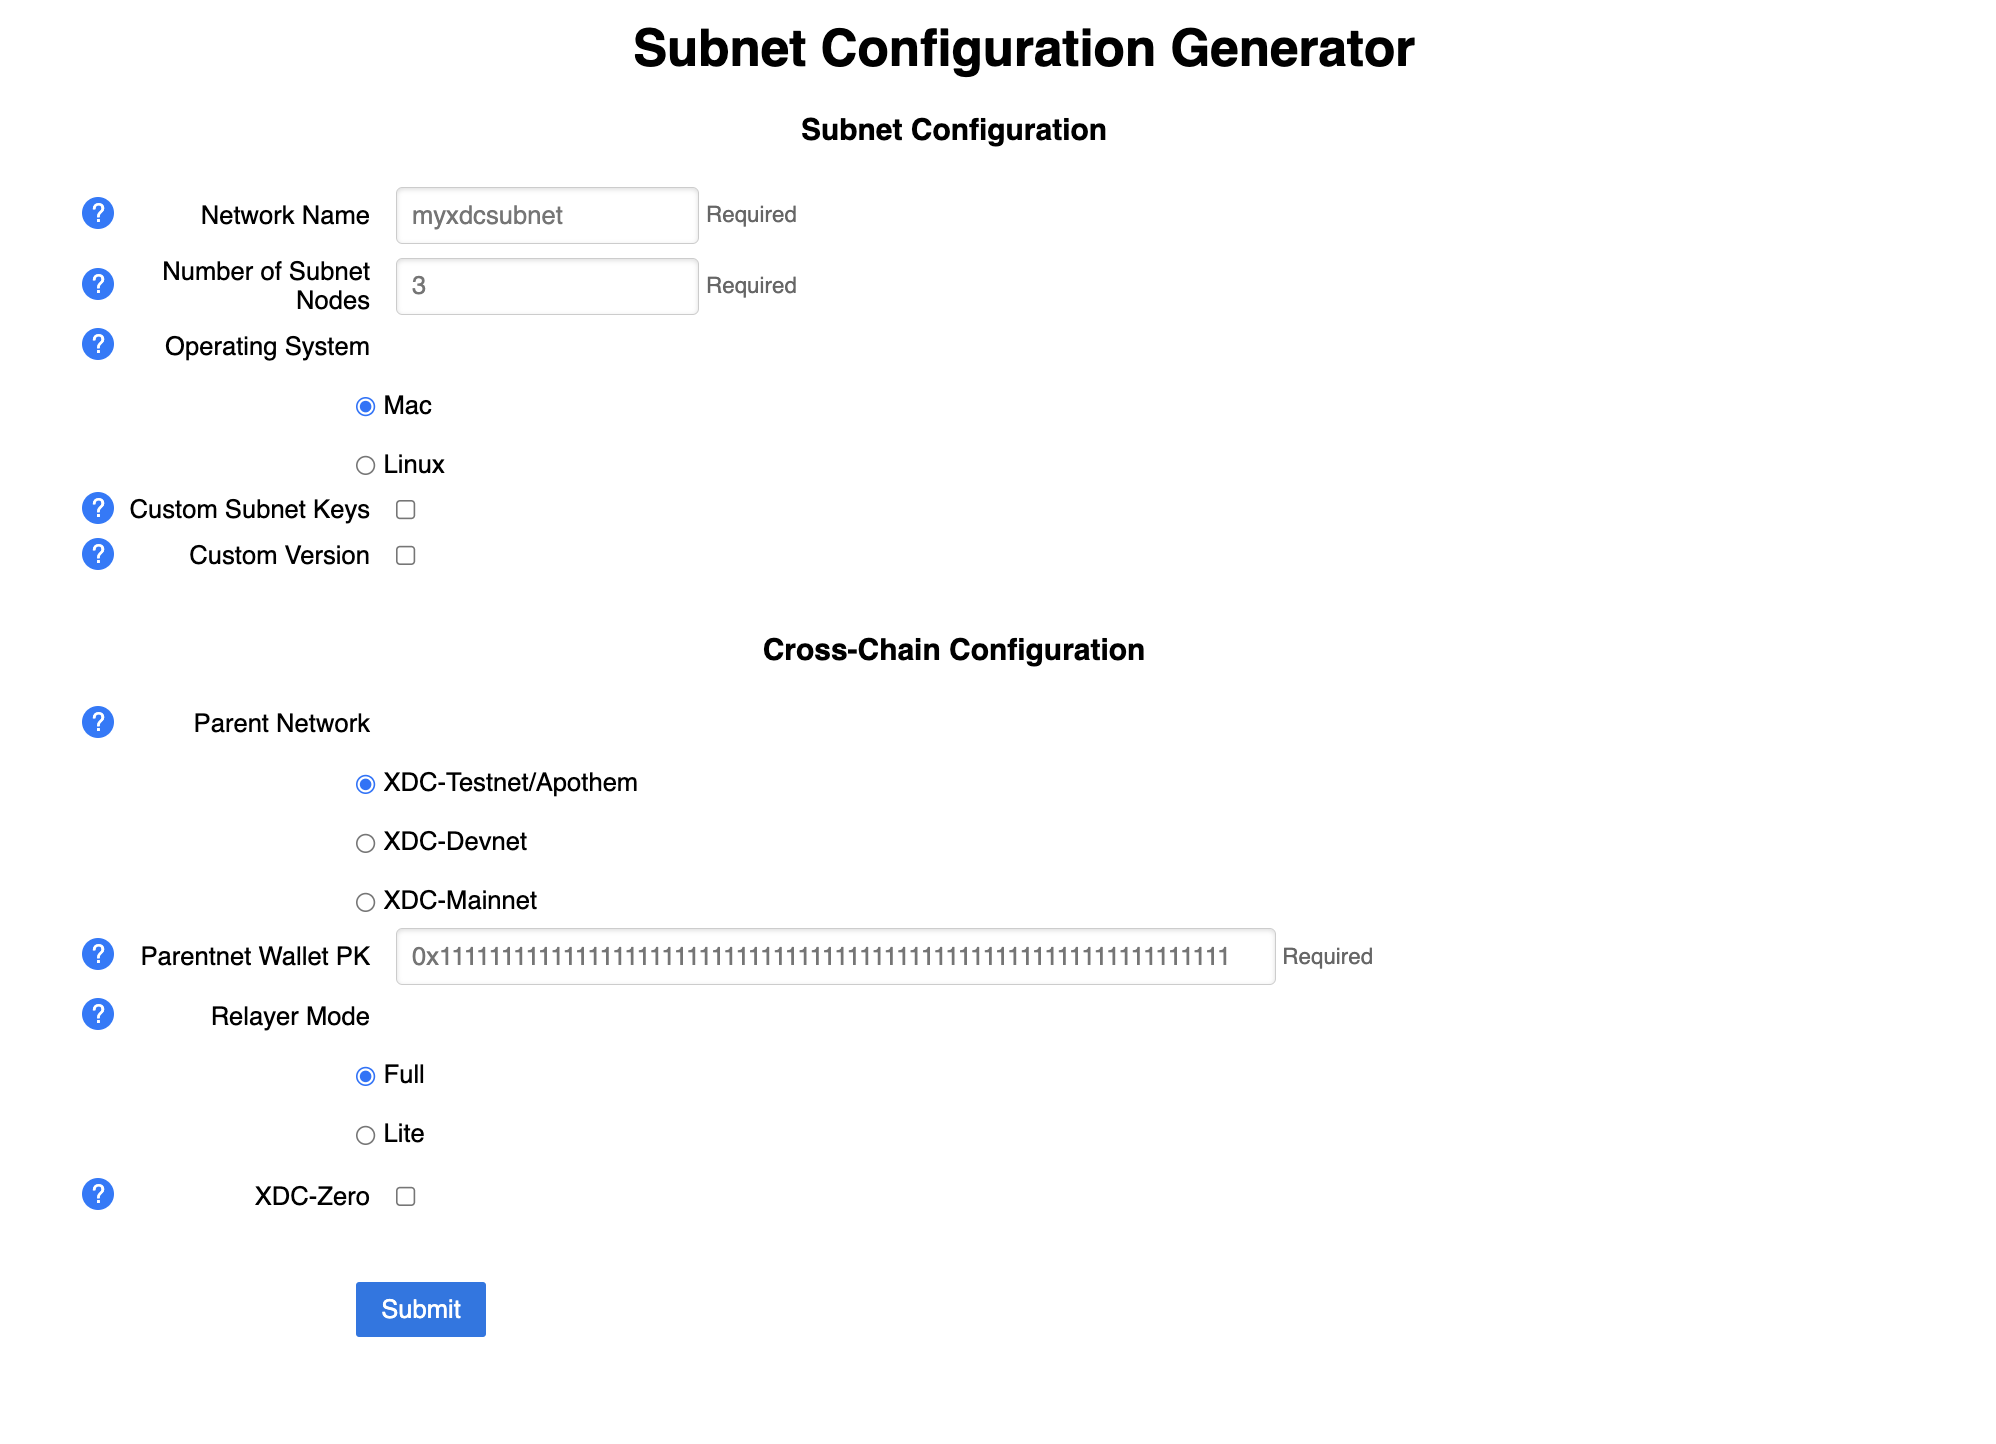
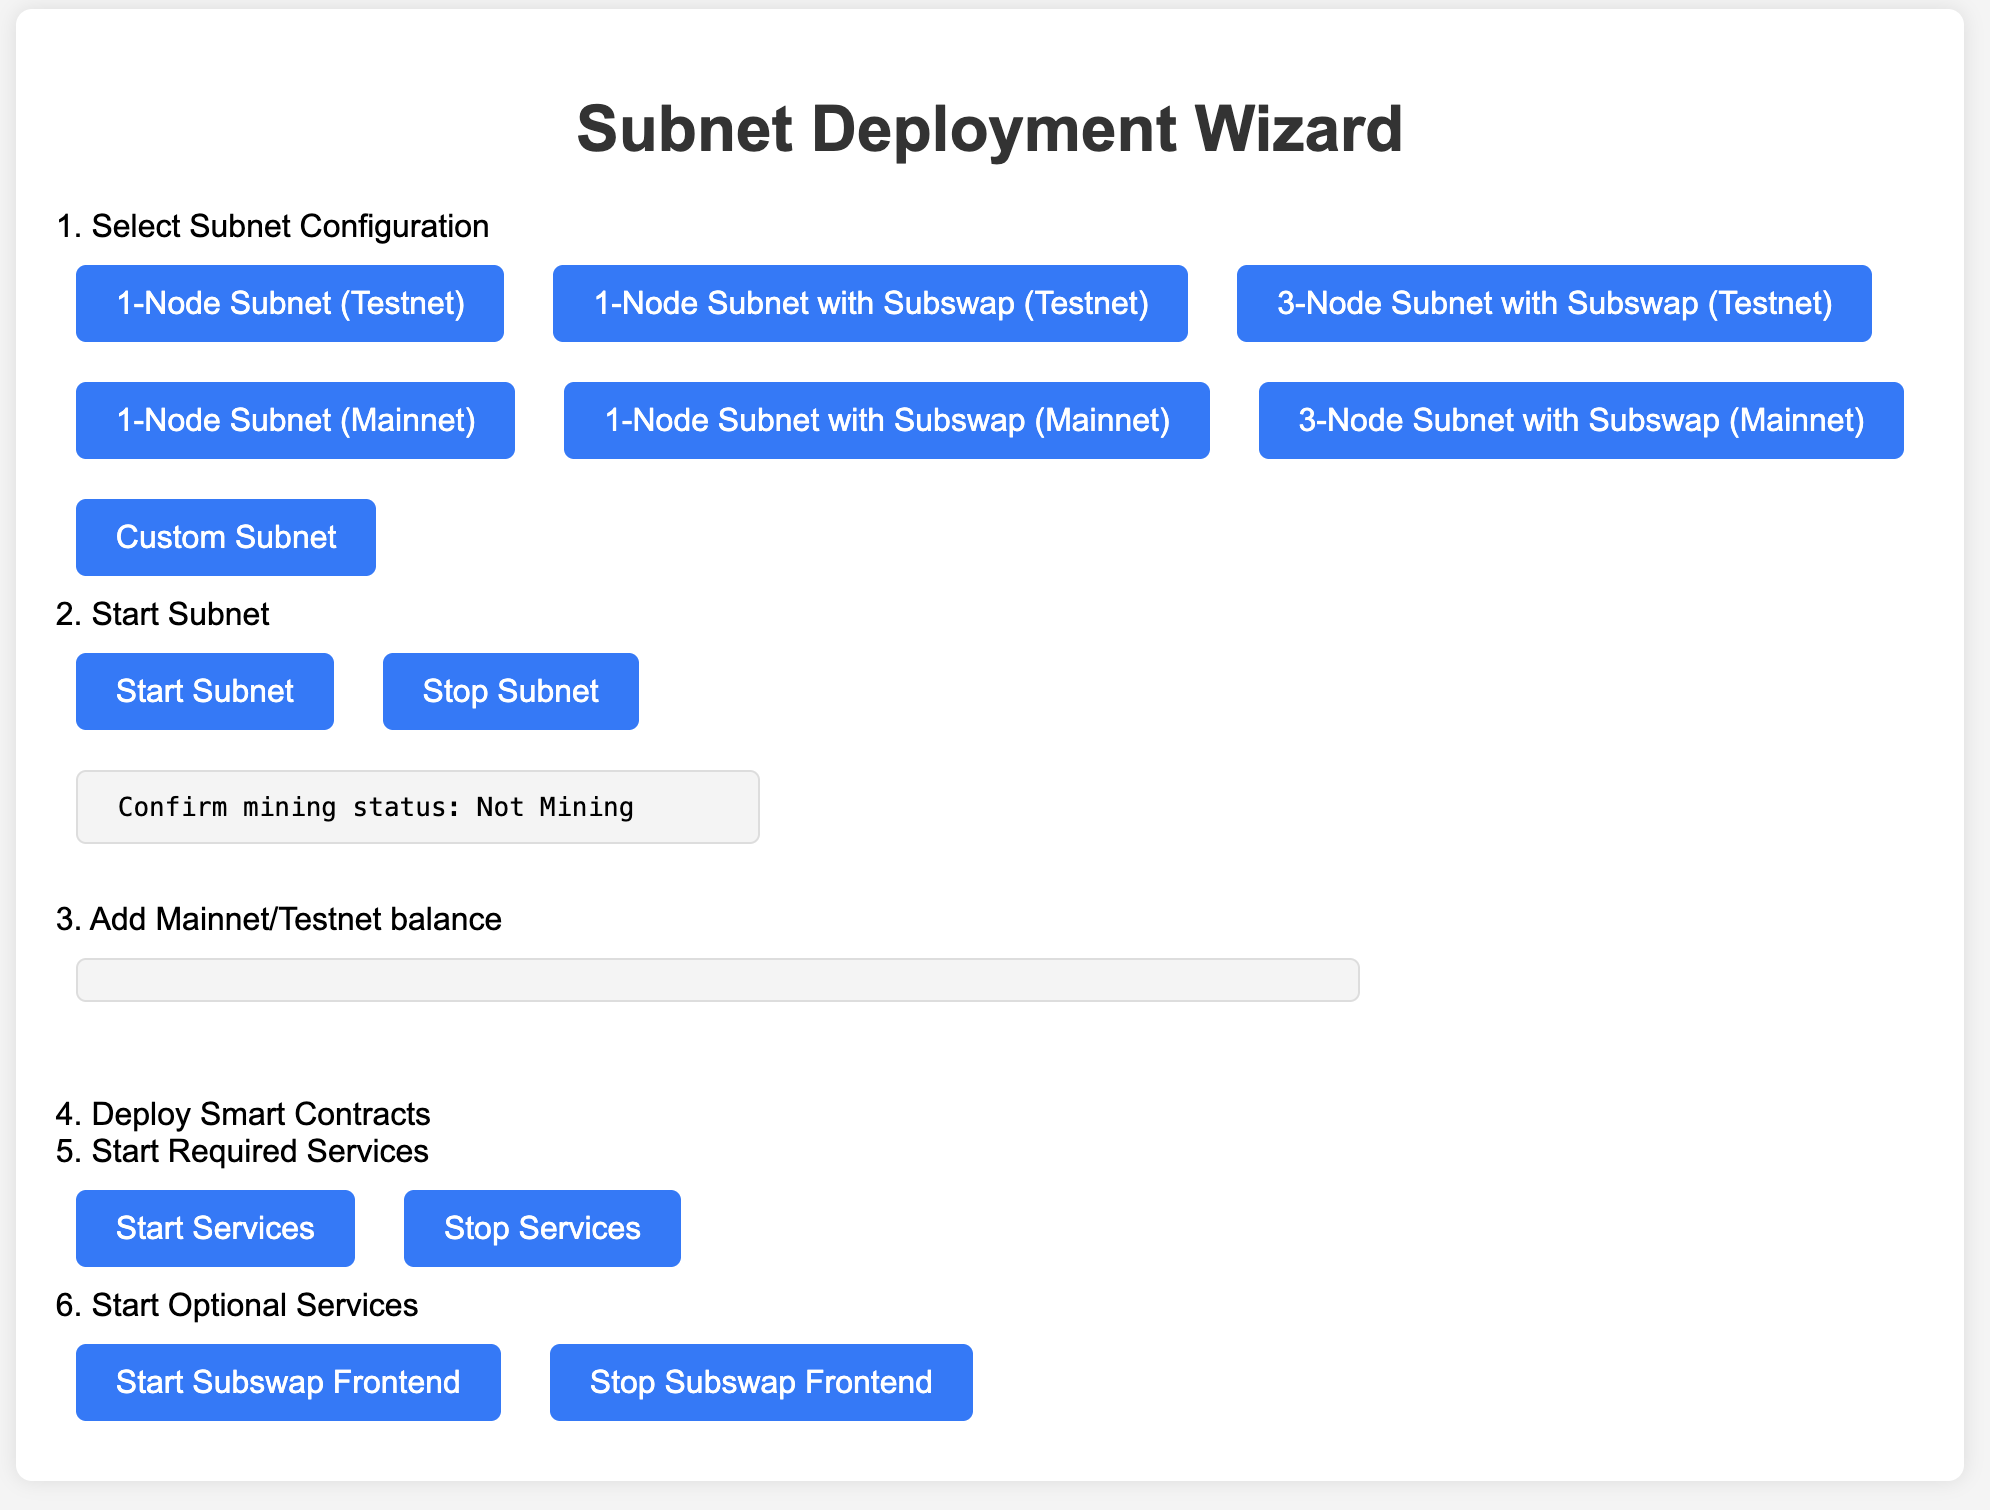
update instructions for new version

Changed region(s): [[0.0312, 0.0, 0.9658, 0.9661], [0.3739, 0.4363, 0.592, 0.4675]]

diff --git a/docs/subnet/install_guide/launch_subnet.md b/docs/subnet/install_guide/launch_subnet.md
@@ -5,17 +5,22 @@ title: Launch a Subnet
 # Launch a Subnet
 
 ## Requirements
-  - OS: Linux. Only Linux is supported for full deployment.
+  - OS: Linux or Mac
 
-  - OS: Mac is only supported for single machine testing environment.
-  
-  - docker, docker compose V2. For manual installation of docker compose V2 please refer to: https://docs.docker.com/compose/install/linux/
-  
-  - Recommended Hardware (per single Subnet node):
-    - CPU: 2 Core
-    - Memory: 4 GB
+  - docker and docker compose. For installation of docker compose please refer to: https://docs.docker.com/compose/install/linux/
 
-  - Web3 wallet with funds. For testing we have faucets provided:
+  - Minimum Hardware Requirements:
+    - Subnet Services:
+        - CPU: 4 Core
+        - Memory: 8 GB
+        - Storage: 32 GB
+
+    - Subnet Blockchain (per single Subnet node): 
+        - CPU: 2 Core
+        - Memory: 4 GB
+        - Storage: 50 GB per year (takes up more space as blokchain grows)
+
+  - Web3 wallet with funds. For testing we have testnet faucets:
     - https://faucet.apothem.network/ 
     - https://faucet.blocksscan.io/
 
@@ -24,42 +29,39 @@ title: Launch a Subnet
 <iframe width="768" height="432" src="https://www.youtube.com/embed/m-sPbMrB8ow" title="Setting Up Your Own XDC-Subnet Tutorial" frameborder="0" allow="accelerometer; autoplay; clipboard-write; encrypted-media; gyroscope; picture-in-picture; web-share" referrerpolicy="strict-origin-when-cross-origin" allowfullscreen></iframe>
 
 
-## Generate Subnet Configs With UI
+## Generate Subnet Configs With Subnet Deployment Wizard UI
 
-  1. Pull `generator.sh` script from the generator Github repo
+  1. Pull `start.sh` script from the generator Github repo and run. This will start a local webserver
   ```
-  curl -O https://raw.githubusercontent.com/XinFinOrg/Subnet-Deployment/master/deployment-generator/scripts/generate.sh
+  curl -O https://raw.githubusercontent.com/XinFinOrg/Subnet-Deployment/v2.0.0/container-manager/start.sh
+  chmod +x start.sh
+  ./start.sh
   ```
   
-  2. Run the configuration generator, this will start a local webserver
-  ```
-  chmod +x generate.sh
-  ./generate.sh
-  cd generated
-  ```
-
-  3. Go to [http://localhost:5210/](http://localhost:5210) in your browser.
+  2. Go to [http://localhost:5210/](http://localhost:5210) in your browser.
   <details>
   <summary>If you are running this on a remote server.</summary>
   <p>
-    first use ssh tunnel: <code>ssh -N -L localhost:5210:localhost:5210 USERNAME@IP_ADDRESS -i SERVER_KEY_FILE</code>
-    **if you're using VSCode to SSH, the port might be forwarded to your machine automatically (no need for above step) 
+    - if this is running on your server, first use ssh tunnel: <code>ssh -N -L localhost:5210:localhost:5210 USERNAME@IP_ADDRESS -i SERVER_KEY_FILE</code>
+   <br> 
+    - if you are using VSCode Remote Explorer, ssh tunnel will be available by default
   </p>
   </details>
 
-
-  4. Config the Subnet options per your requirement.
+  3. Select one of the pre-defined configs or customize your Subnet.
   ![UI](../img/ui.png)
 
-  5. follow the generated instructions in `commands.txt`. In general, the steps are:
-      - start Subnet Nodes
-      - deploy CSC
-      - deploy XDC-Zero (optional)
-      - start Subnet Services (relayer, stats-server, frontend)
+  4. Follow the UI to finish the deployment, you can also check the Status monitor of your containers:
+    - Start Subnet nodes
+    - Deploy cross-chain contracts
+    - Start Subnet services
+  ![Steps](../img/steps.png)
 
-  6. Once successfully deployed, you can check out [UI usage guide](../using_subnet.md)
+  5. Once successfully deployed, you can check out [UI usage guide](../using_subnet.md)
+  
+  <!-- 6. (Optional) if you deployed Subswap, check out the usage here: -->
 
-## Removing Subnet
+<!-- ## Removing Subnet
 
 ### Shutdown Subnet
   Under `generated` directory
@@ -74,4 +76,4 @@ title: Launch a Subnet
   Warning: this cannot be undone
   ``` 
   rm -rf xdcchain* bootnodes stats-service
-  ```
+  ``` -->
